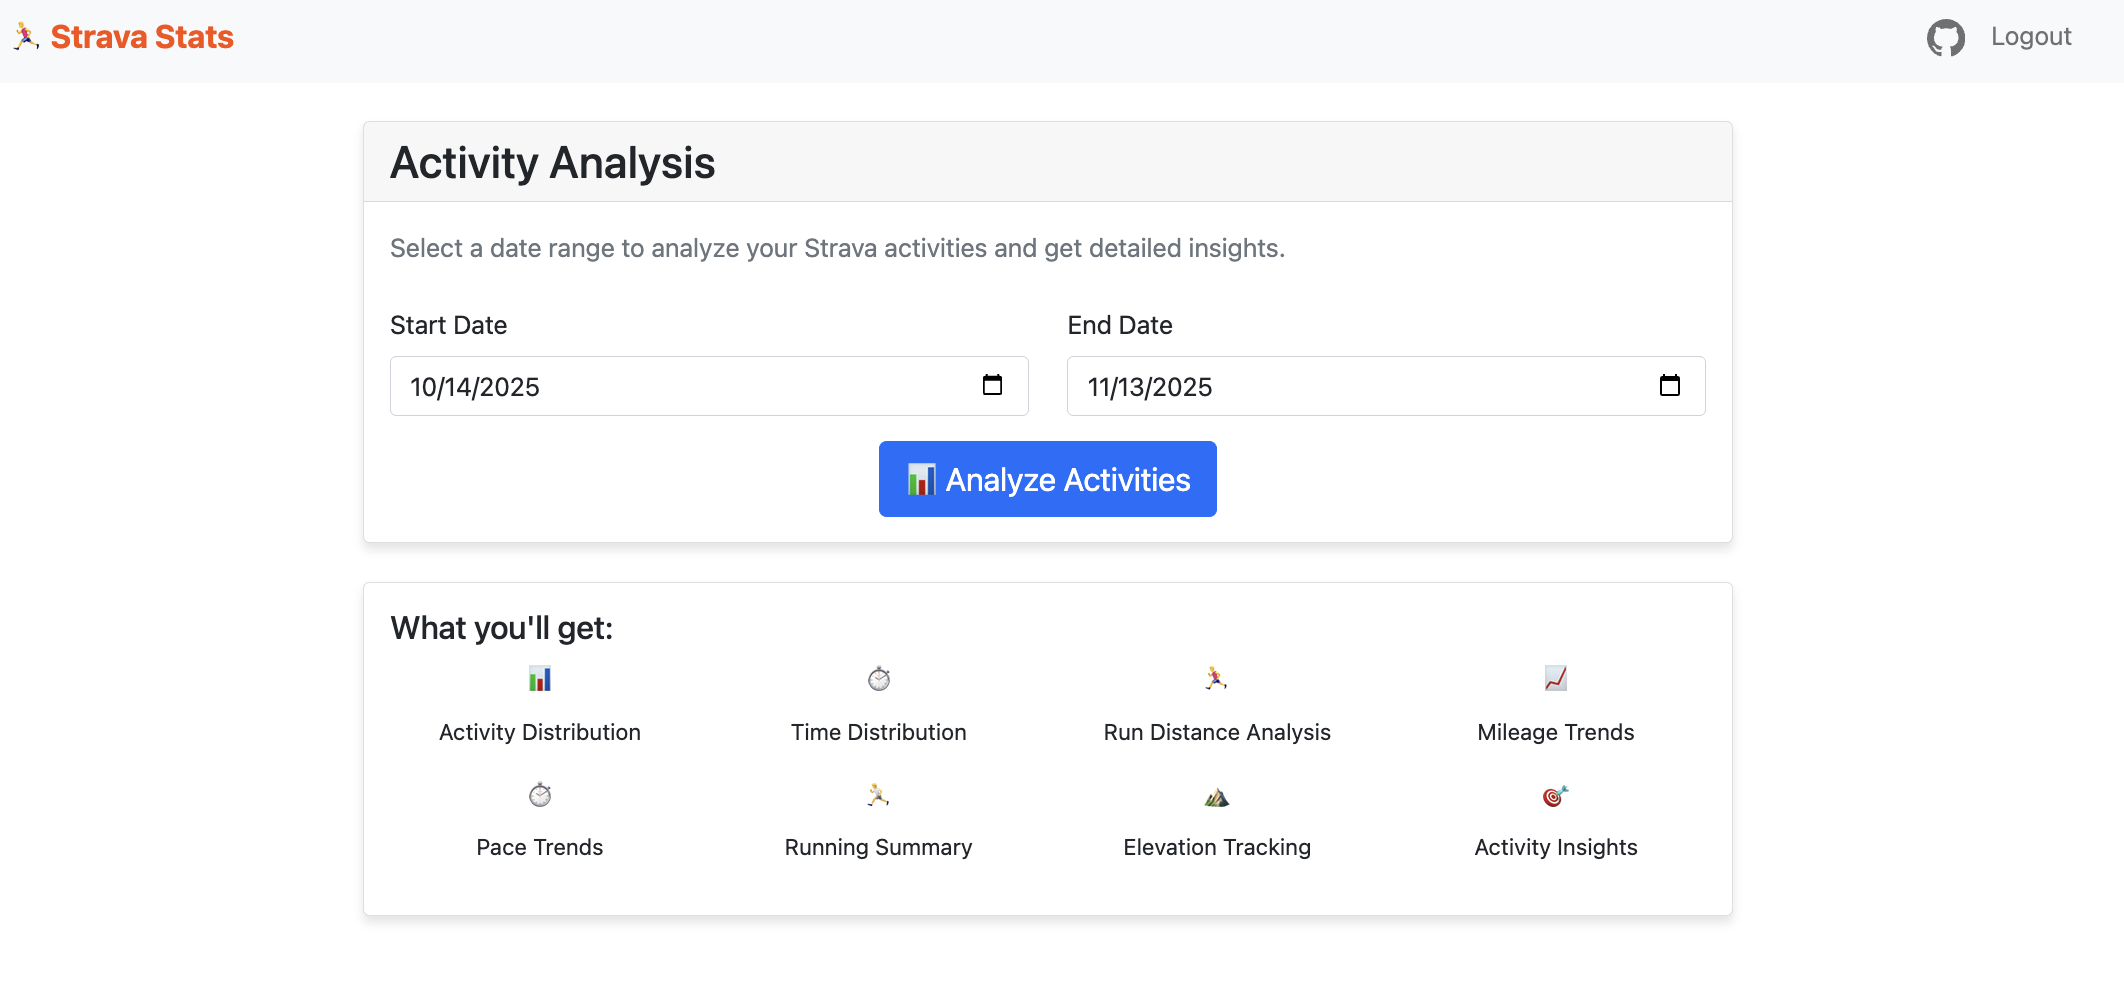
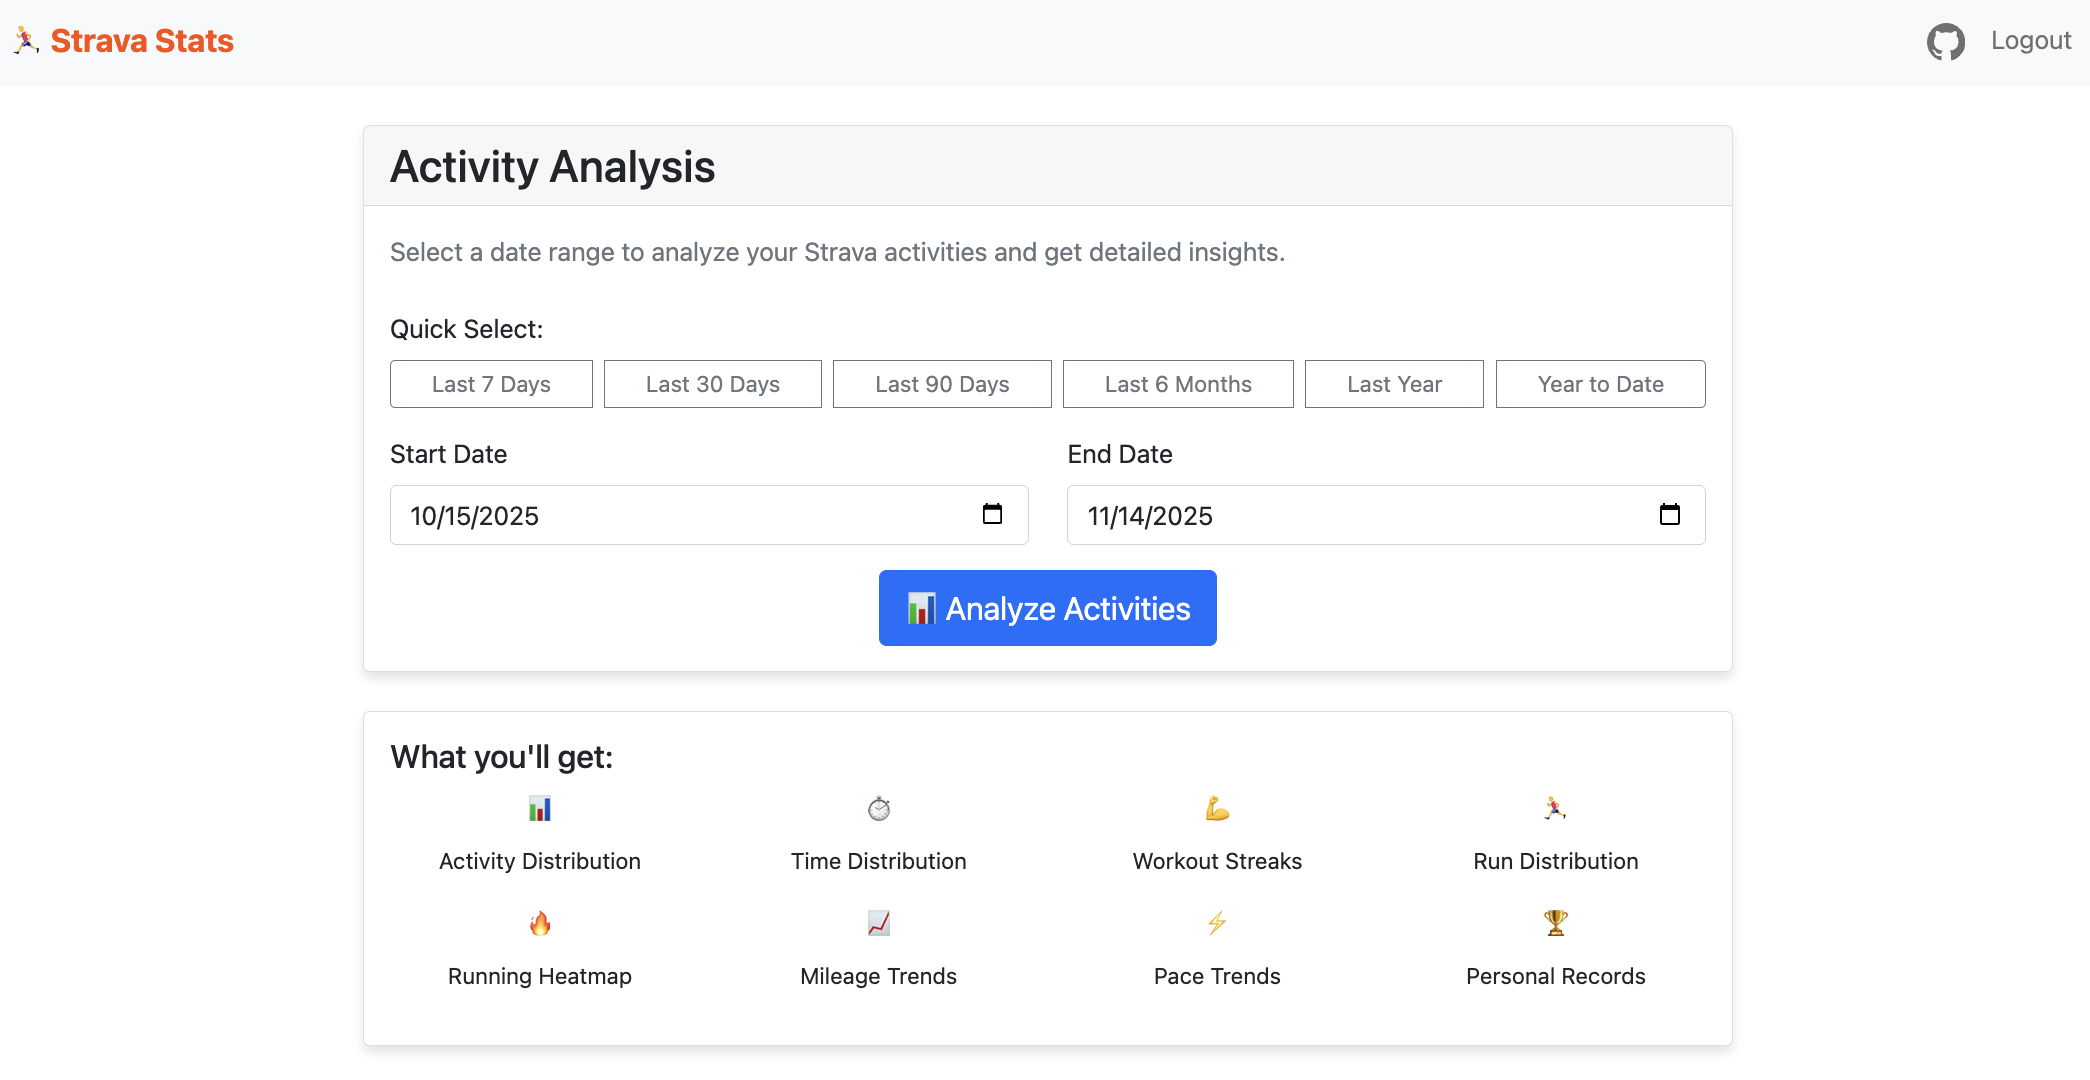
Add new screenshots and organize in tab order
- Add Workout Streaks and Running Heatmap screenshots
- Update existing screenshots to reflect latest UI changes
- Organize screenshots in README to match tab order:
  1. Input Page
  2. Dashboard
  3. Time Distribution
  4. Workout Streaks (new)
  5. Run Distribution
  6. Running Heatmap (new, renamed from Running Streaks)
  7. Mileage Trend
  8. Pace Trend
- Add "Screenshots" section header for better organization

🤖 Generated with [Claude Code](https://claude.com/claude-code)

diff --git a/README.md b/README.md
@@ -1,4 +1,6 @@
 
+## Screenshots
+
 ### Input Page
 ![Input Page](images/input-page.png)
 
@@ -8,8 +10,14 @@
 ### Time Distribution
 ![Time Distribution](images/time-distribution.png)
 
+### Workout Streaks
+![Workout Streaks](images/workout-streaks.png)
+
 ### Run Distribution
 ![Run Distribution](images/run-distribution.png)
+
+### Running Heatmap
+![Running Heatmap](images/running-heatmap.png)
 
 ### Mileage Trend
 ![Mileage Trend](images/mileage-trend.png)
